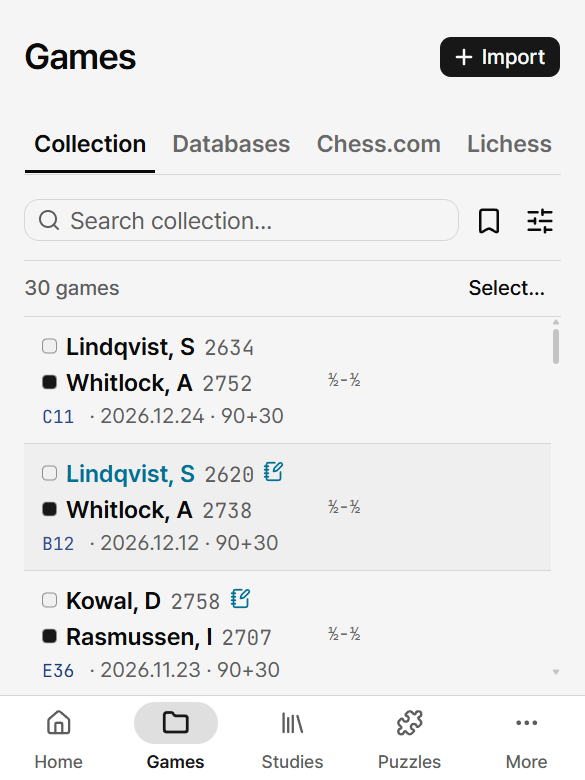
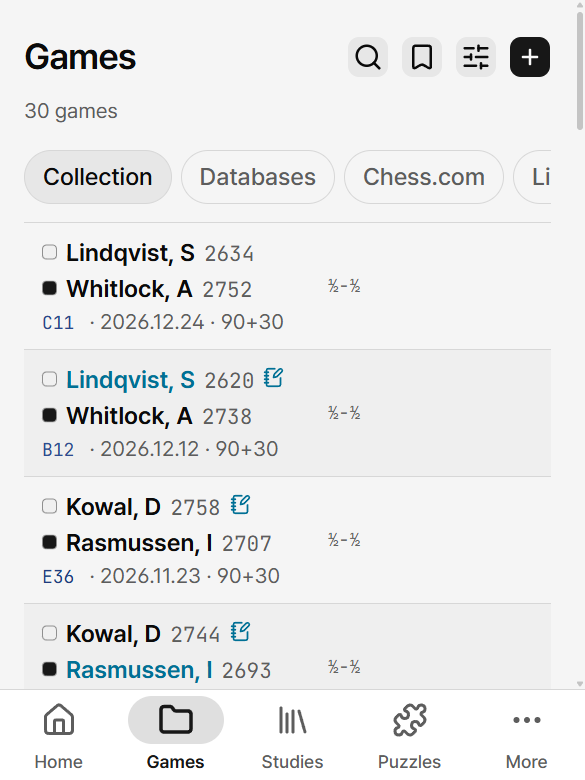
The manual catches up with the phone chrome, and its phone shots with it
The release audit walked the manual against the 0.11.4 entries. Stale:
the Games search described as a row of its own, the map menu as a
corner disc on every phone, the pane strip's underline. Missing: the
floating iPhone bar, row menus by platform, the bar a scroll up brings
back, the sidebar opening a section's first page, the review offer's
switch, the note's heading list. Both languages.

Shots: captured twice against one build. games-phone moved 42 to 46%
and note-phone 2.0% at a 0.00% noise floor, so those four are
recaptured. board, opening-map and puzzle-trainer differ from
themselves by as much as from the committed set and keep their bytes.

diff --git a/web/landing/docs.html b/web/landing/docs.html
@@ -765,13 +765,15 @@
               <strong>Databases</strong>. The Puzzles and Tools sub-rows unfold only while that section is open. Below them sit the vault's name (the one given in Settings → Vault, else its folder's; the full path in the tooltip; unfolded only), the connection label (“This device”, your server's name, or “Offline”; wide windows only), the Settings gear, and the light/dark
               toggle. At the end of the brand row, beside the mark, “Fold the sidebar” folds the sidebar to its icons; folded, the same button on the first row of the column reads “Unfold the sidebar” and unfolds it, and hovering a row shows its name as a tooltip. Until you choose, the window decides: labels on a wide window, icons on a narrower one. One press keeps your choice on this device. <kbd>Ctrl/⌘ B</kbd> folds and unfolds it too, wherever there is a sidebar, and the keyboard list under <kbd>?</kbd> names it (“Fold or unfold the sidebar”). In the desktop app the switch sits on the window's band instead; see <a href="#start">Getting started</a>.
             </p>
-            <p data-ko="휴대폰의 하단 바는 <strong>홈 · 게임 · 스터디 · 퍼즐 · 더보기</strong>(Home · Games · Studies · Puzzles · More)를 들고, <strong>더보기</strong>(More)에는 도구(Tools)(Board, Editor, Explorer, Repertoire, 엔드게임 드릴)가 먼저, 그 다음 Notes, Books, Opening map, Insights, Databases, Settings이 사이드바 순서대로 있습니다. 탭을 누르면 그 섹션이 서 있던 페이지로 돌아가고, 현재 탭을 한 번 더 누르면 섹션의 첫 페이지로, 첫 페이지에서는 페이지 맨 위로 올라갑니다. 바를 좌우로 밀면 알약이 손가락을 따라오고, 손가락 아래의 탭에 불이 들어오며, 손을 뗀 자리의 탭으로 갑니다. 보드가 있는 페이지에서는 하단 바가 그 페이지의 조작으로 바뀝니다. <a href='#phone'>휴대폰에서</a> 참조.">
+            <p data-ko="휴대폰의 하단 바는 <strong>홈 · 게임 · 스터디 · 퍼즐 · 더보기</strong>(Home · Games · Studies · Puzzles · More)를 들고, <strong>더보기</strong>(More)에는 도구(Tools)(Board, Editor, Explorer, Repertoire, 엔드게임 드릴)가 먼저, 그 다음 Notes, Books, Opening map, Insights, Databases, Settings이 사이드바 순서대로 있습니다. 탭을 누르면 그 섹션이 서 있던 페이지로 돌아가고(사이드바의 행은 그렇지 않고 언제나 섹션의 첫 페이지를 엽니다), 현재 탭을 한 번 더 누르면 섹션의 첫 페이지로, 첫 페이지에서는 페이지 맨 위로 올라갑니다. iPhone에서는 바가 아래 가장자리에서 떠 있는 둥근 캡슐이고 아이콘만 있습니다. 바를 좌우로 밀면 알약이 손가락을 따라오고, 손가락 아래의 탭에 불이 들어오며, 손을 뗀 자리의 탭으로 갑니다. 보드가 있는 페이지에서는 하단 바가 그 페이지의 조작으로 바뀝니다. <a href='#phone'>휴대폰에서</a> 참조.">
               A phone's bottom bar carries <strong>Home · Games · Studies · Puzzles ·
               More</strong>; <strong>More</strong> lists Tools (Board, Editor, Explorer, Repertoire,
               Endgame drills) first, then Notes, Books, Opening map, Insights, Databases and
-              Settings, in the sidebar's order. A tab returns to the page its section was on; a
+              Settings, in the sidebar's order. A tab returns to the page its section was on (a
+              sidebar row does not: it always opens its section's first page); a
               second tap on the current tab goes up to the section's root, and from the root to
-              the top of the page. Drag along the bar and the pill follows your
+              the top of the page. On an iPhone the bar is a rounded capsule floating off the bottom
+              edge, icons only. Drag along the bar and the pill follows your
               finger, the tab under it lights, and the app moves to whichever tab you let go on.
               On a page with a board the bar becomes that
               page's own controls; see <a href="#phone">On a phone</a>.
@@ -1676,12 +1678,13 @@
               </picture>
             </figure>
             <h2 data-ko="읽기와 쓰기">Reading and writing</h2>
-            <p data-ko="데스크톱에서는 노트가 바로 편집할 수 있는 상태로 열립니다. 글을 클릭하고 입력하면 됩니다. 머리의 <strong>읽기</strong>(Read)(«읽기로 돌아가기»(Back to reading))가 읽기로 돌아가고, 읽는 중에는 클릭만으로 위키링크가 열리며, 편집 중에는 Ctrl/⌘+클릭으로 엽니다. 휴대폰에서는 노트가 읽기 상태로 열리고 도구 막대가 없습니다. <strong>편집</strong>(Edit)(«이 노트 편집»(Edit this note))이 편집으로 바꾸고, 같은 자리가 <strong>완료</strong>(Done)가 됩니다. 머리의 나머지는 다른 문서와 같습니다: 뒤로, 제목(두 번 클릭해 이름 바꾸기), 이름표(«이 노트의 다른 이름»(Other names for this note)), 고리(«연결된 언급»(Linked mentions), 가리키는 것이 있을 때만), 시계(«이전 버전»(Earlier versions)), 저장 표시. 휴대폰에서는 이름표, 고리, 시계가 ⋯ 하나 뒤로 접힙니다.">
+            <p data-ko="데스크톱에서는 노트가 바로 편집할 수 있는 상태로 열립니다. 글을 클릭하고 입력하면 됩니다. 머리의 <strong>읽기</strong>(Read)(«읽기로 돌아가기»(Back to reading))가 읽기로 돌아가고, 읽는 중에는 클릭만으로 위키링크가 열리며, 편집 중에는 Ctrl/⌘+클릭으로 엽니다. 휴대폰에서는 노트가 읽기 상태로 열리고 도구 막대가 없습니다. <strong>편집</strong>(Edit)(«이 노트 편집»(Edit this note))이 편집으로 바꾸고, 같은 자리가 <strong>완료</strong>(Done)가 됩니다. 머리의 나머지는 다른 문서와 같습니다: 뒤로, 제목(두 번 클릭해 이름 바꾸기), 이름표(«이 노트의 다른 이름»(Other names for this note)), 고리(«연결된 언급»(Linked mentions), 가리키는 것이 있을 때만), 시계(«이전 버전»(Earlier versions)), 저장 표시. 휴대폰에서는 이름표, 고리, 시계가 ⋯ 하나 뒤로 접힙니다. 넓은 데스크톱 창에서는 제목이 둘 이상인 노트의 제목들이 글 왼쪽 여백에 목록으로 서고, 하나를 클릭하면 그 자리로 스크롤됩니다.">
               On a desktop a note opens ready to edit: click into the text and type. The header's <strong>Read</strong> (“Back to reading”) goes back to reading, where a plain click follows a wiki-link; while editing, Ctrl/⌘+click follows one. A phone opens a note to read, with no toolbar: its <strong>Edit</strong> (“Edit this note”) switches to writing, and the same spot becomes <strong>Done</strong> (“Back to reading”). The rest of the header matches
               every document: back, the title (double-click to rename), the tag (“Other names for
               this note”), the link (“Linked mentions”, only where something points here), the
               clock (“Earlier versions”), the save control; on a phone the tag, the link and the
-              clock fold behind one ⋯.
+              clock fold behind one ⋯. On a wide desktop window a note with two or more headings
+              lists them in the margin left of the text, and a click on one scrolls to it.
             </p>
             <h3 data-ko="서식 도구 막대">The formatting toolbar</h3>
             <p data-ko="편집 중에만 노트 위에 고정되어 표시됩니다. 열 개의 버튼, 순서대로:">
@@ -1782,7 +1785,7 @@
             </figure>
             <h2 data-ko="모음">The collection</h2>
             <ul>
-              <li data-ko="검색(«모음 검색…»(Search collection…))과 즐겨찾기 필터가 위에, 그 아래로 필터 줄: <strong>누구의 게임</strong>(Whose games)(Anyone's games · My games · Mine as White · Mine as Black) · <strong>결과</strong>(Result) · <strong>노트</strong>(Notes)(All games / With notes), 그리고 «필터 더 보기»(More filters). 태블릿 너비 아래에서는 세 선택 상자가 «필터 더 보기» 창에만 있고, 그 버튼은 검색 칸 옆에 켜진 필터 수를 달고 섭니다. 검색 상자는 Databases 탭과 같은 질의 언어를 씁니다 — <a href='#db-search'>데이터베이스 검색</a> 참조. 줄을 오른쪽 클릭하면 <strong>즐겨찾기 · 이름 바꾸기 · 제거</strong>(Bookmark · Rename · Remove)(잠깐 실행 취소 가능)가 나오고, 출처가 있으면 <strong>온라인에서 보기</strong>(View online)가 함께 옵니다. 기보를 여는 것은 이 메뉴가 아니라 더블 클릭입니다. 카드 줄로 그려지는 좁은 화면에서는 같은 메뉴가 줄의 ⋯에 있고, <strong>보드 미리 보기</strong>(Preview the board)와 <strong>게임 정보</strong>가 앞에 붙습니다. 넓은 화면에서는 옆의 패널이 맡는 일입니다. 휴대폰에서는 검색 칸에 입력하는 동안 칸이 줄 전체를 차지하고, 옆의 버튼들은 칸을 떠날 때까지 물러납니다. «취소»(Cancel)는 칸을 비우고 키보드를 내립니다. Databases 탭과 온라인 기보 탭의 검색 줄도 같습니다.">
+              <li data-ko="검색(«모음 검색…»(Search collection…))과 즐겨찾기 필터가 위에, 그 아래로 필터 줄: <strong>누구의 게임</strong>(Whose games)(Anyone's games · My games · Mine as White · Mine as Black) · <strong>결과</strong>(Result) · <strong>노트</strong>(Notes)(All games / With notes), 그리고 «필터 더 보기»(More filters). 태블릿 너비 아래에서는 세 선택 상자가 «필터 더 보기» 창에만 있고, 그 버튼은 검색 칸 옆에 켜진 필터 수를 달고 섭니다. 검색 상자는 Databases 탭과 같은 질의 언어를 씁니다 — <a href='#db-search'>데이터베이스 검색</a> 참조. 줄을 오른쪽 클릭하면 <strong>즐겨찾기 · 이름 바꾸기 · 제거</strong>(Bookmark · Rename · Remove)(잠깐 실행 취소 가능)가 나오고, 출처가 있으면 <strong>온라인에서 보기</strong>(View online)가 함께 옵니다. 기보를 여는 것은 이 메뉴가 아니라 더블 클릭입니다. 카드 줄로 그려지는 좁은 화면에서는 같은 메뉴가 줄의 ⋯에 있고, <strong>보드 미리 보기</strong>(Preview the board)와 <strong>게임 정보</strong>가 앞에 붙습니다. 넓은 화면에서는 옆의 패널이 맡는 일입니다. 휴대폰에서는 검색이 제목 줄의 돋보기입니다(아래 참조). 그 옆의 «취소»(Cancel)는 칸을 비우고 키보드를 내리며 제목을 돌려줍니다. Databases 탭도 같고, 온라인 기보 탭의 사용자 이름 칸은 입력한 이름을 그대로 둔 채 닫힙니다.">
                 Search (“Search collection…”) and the bookmark filter on top, and a filter row
                 under them: <strong>Whose games</strong> (Anyone's games · My games · Mine as
                 White · Mine as Black) · <strong>Result</strong> · <strong>Notes</strong> (All
@@ -1795,10 +1798,10 @@
                 game is the double click, not a menu item. Where rows are cards rather than a
                 table, the same menu sits under the row's ⋯ and gains
                 <strong>Preview the board</strong> and <strong>Game details</strong> in front —
-                the work the panel beside a wide table does. On a phone the search field takes the
-                whole row while you type in it, the buttons beside it stepping aside until you
-                leave; “Cancel” empties it and puts the keyboard away. The same holds for the
-                Databases and archive tabs' search rows.
+                the work the panel beside a wide table does. On a phone the search is a magnifier in
+                the title row (see below); “Cancel” beside the field empties it, puts the keyboard
+                away and gives the title back. The same holds for the Databases tab; the archive
+                tabs' username field closes with the name left in it.
               </li>
               <li data-ko="<strong>게임 가져오기</strong>(Import a game): PGN을 붙여 넣습니다. «PGN 또는 수순만 붙여넣으세요: 1. e4 e5 2. Nf3 …». 헤더가 있으면 아래 칸들(White/Black, 레이팅, 날짜, 대회)이 저절로 채워지고, Result는 <strong>자동 · 1-0 · 0-1 · ½-½</strong>(Auto · 1-0 · 0-1 · ½-½)에서 고릅니다. 제출은 <strong>모음에 추가</strong>(Add to collection). 붙여넣은 글에 게임이 여럿이면 각각 문서로 추가되고, 상자 아래 줄이 그 수를 세며, 토스트가 «게임 {n}개를 추가했습니다»(Added {n} games)와 함께 이미 있던 수, 읽지 못한 수를 알려 줍니다.">
                 <strong>Import a game</strong>: paste a PGN: “Paste a PGN, or just moves: 1. e4 e5 2. Nf3 …”. Headers fill the detail fields (players, ratings, date, event) by
@@ -2531,8 +2534,9 @@
               </picture>
             </figure>
             <h2 data-ko="맵 메뉴">The map menu</h2>
-            <p data-ko="데스크톱에서는 머리의 아이콘 줄, 휴대폰에서는 «맵 메뉴»(Map menu) FAB. 순서대로:">
-              Icons in the header on a desktop, the “Map menu” FAB on a phone. In order:
+            <p data-ko="데스크톱에서는 머리의 아이콘 줄, Android 휴대폰에서는 오른쪽 아래의 «맵 메뉴»(Map menu) 원반, iPhone에서는 제목 줄의 같은 나침반 버튼. 순서대로:">
+              Icons in the header on a desktop, the “Map menu” disc in the bottom-right corner on an
+              Android phone, the same compass on the title row on an iPhone. In order:
             </p>
             <div class="scroll-x">
               <table class="controls">
@@ -2547,12 +2551,13 @@
                 </tbody>
               </table>
             </div>
-            <p data-ko="휠/핀치로 확대·축소하고, 끌어서 이동하며, 점을 끌면 거미줄이 당겨집니다. 키보드로는 <kbd>+</kbd>와 <kbd>-</kbd>가 확대·축소, <kbd>0</kbd>이 화면에 맞추기, <kbd>Shift</kbd>+화살표가 이동이며, 화살표로 점을 고르면 그 점이 화면 안으로 미끄러져 들어옵니다. 라벨은 흐려지지 않고 온전히 그려지거나 아예 생략됩니다. 검색(«수와 오프닝 이름 검색»(Search moves and opening names))은 수와 오프닝 이름을 함께 찾습니다.">
+            <p data-ko="휠/핀치로 확대·축소하고, 끌어서 이동하며, 점을 끌면 거미줄이 당겨집니다. 키보드로는 <kbd>+</kbd>와 <kbd>-</kbd>가 확대·축소, <kbd>0</kbd>이 화면에 맞추기, <kbd>Shift</kbd>+화살표가 이동이며, 화살표로 점을 고르면 그 점이 화면 안으로 미끄러져 들어옵니다. 라벨은 흐려지지 않고 온전히 그려지거나 아예 생략됩니다. 검색(«수와 오프닝 이름 검색»(Search moves and opening names))은 수와 오프닝 이름을 함께 찾습니다. 휴대폰에서는 다른 목록처럼 제목 줄의 돋보기로 접힙니다.">
               Wheel/pinch zooms, dragging pans, and dragging a dot pulls the web. From the
               keyboard, <kbd>+</kbd> and <kbd>-</kbd> zoom, <kbd>0</kbd> fits the map,
               <kbd>Shift</kbd>+arrows pan, and selecting a dot with the arrow keys slides it into
               view. A label is drawn whole or not at all; none fades. The search field
-              (“Search moves and opening names”) finds both.
+              (“Search moves and opening names”) finds both; on a phone it folds into a magnifier
+              on the title row, as the shelves' do.
             </p>
             <h2 data-ko="수 놓기">Charting moves</h2>
             <ul>
@@ -2934,12 +2939,17 @@
             </figure>
             <h2 data-ko="무엇이 달라지나">What changes</h2>
             <ul>
-              <li data-ko="하단 바에 <strong>홈 · 게임 · 스터디 · 퍼즐 · 더보기</strong>(Home · Games · Studies · Puzzles · More)가 있고, 나머지는 More 안에 있습니다. 각 페이지의 만들기·추가는 데스크톱과 같이 제목 줄의 버튼(«만들기»(Create), Games에서는 «가져오기»(Import))에 있고, 여러 가지를 만들 수 있는 페이지에서는 그 버튼이 동작 시트를, iPhone에서는 버튼 아래 메뉴를 엽니다. 오프닝 맵만 오른쪽 아래의 나침반 원반으로 메뉴를 엽니다.">
+              <li data-ko="하단 바에 <strong>홈 · 게임 · 스터디 · 퍼즐 · 더보기</strong>(Home · Games · Studies · Puzzles · More)가 있고, 나머지는 More 안에 있습니다. iPhone에서는 바가 아래 가장자리에서 떠 있는 반투명한 둥근 캡슐이며 아이콘만 있고, 페이지가 그 아래로 스크롤됩니다. 아래로 스크롤하면 작아지고, 위로 스크롤하거나 바를 누르면 돌아옵니다. Android에서는 바가 가장자리에 붙어 있습니다. 각 페이지의 만들기·추가는 데스크톱과 같이 제목 줄의 버튼(«만들기»(Create), Games에서는 «가져오기»(Import))에 있고, 여러 가지를 만들 수 있는 페이지에서는 그 버튼이 동작 시트를, iPhone에서는 버튼 아래 메뉴를 엽니다. Android에서는 오프닝 맵만 오른쪽 아래의 나침반 원반으로 메뉴를 열고, iPhone에서는 그 나침반이 제목 줄에 있습니다. 줄의 ⋯ 메뉴도 같은 식으로, iPhone에서는 버튼에서 펼쳐지는 메뉴, Android에서는 아래에서 올라오는 시트입니다.">
                 The bottom bar carries <strong>Home · Games · Studies · Puzzles · More</strong>,
-                the rest under More. Each page's create/add actions sit on the title row as on a
+                the rest under More. On an iPhone the bar is a translucent rounded capsule floating
+                off the bottom edge, icons only, with the page scrolling under it; it shrinks as you
+                scroll down, and a scroll up or a tap on it brings it back. On Android the bar is
+                docked to the edge. Each page's create/add actions sit on the title row as on a
                 desktop (“Create”, or “Import” on Games); where a page can make several things the
-                button opens an action sheet, or on an iPhone a menu under the button. Only the opening map keeps a round button in the
-                bottom-right corner, the compass, which opens its menu.
+                button opens an action sheet, or on an iPhone a menu under the button. On Android only
+                the opening map keeps a round button in the bottom-right corner, the compass, which
+                opens its menu; on an iPhone the compass is on the title row. A row's ⋯ menu goes
+                the same way: a menu hanging from the button on an iPhone, a bottom sheet on Android.
               </li>
               <li data-ko="보드가 있는 페이지에서는 하단 바가 <strong>그 페이지의 조작</strong>이 됩니다. Chess.com·Lichess 앱과 같은 방식입니다: 보드에서는 수 이동, 퍼즐에서는 퍼즐 이동, 책에서는 열린 탭(Book/Board)의 도구, 오프닝 맵에서는 선택한 수의 띠. 페이지를 떠나면 원래 탭들이 돌아옵니다.">
                 On a page with a board, the bar becomes <strong>that page's controls</strong> —
@@ -2947,10 +2957,10 @@
                 navigation in the trainer, the open tab's tools in the book reader, the selected
                 move's strip on the opening map. Leaving the page brings the tabs back.
               </li>
-              <li data-ko="보드 옆의 패널들은 탭(Moves / Engine / Chapters / Explorer)이 되고, 상세 패널들은 아래에서 올라오는 시트가 됩니다. 탭 줄은 패널 카드의 머리이며, 열린 탭 아래의 선이 미는 손가락을 따라갑니다. 패널 위에서 좌우로 밀면 위쪽 탭 줄까지 올라가지 않아도 옆 탭으로 넘어갑니다. 양 끝에서는 멈추며, 옆으로 스크롤되는 줄이나 글자를 입력하는 칸 위에서 시작한 손짓은 그 컨트롤이 가져갑니다.">
+              <li data-ko="보드 옆의 패널들은 탭(Moves / Engine / Chapters / Explorer)이 되고, 상세 패널들은 아래에서 올라오는 시트가 됩니다. 탭 줄은 패널 카드의 머리이며, 열린 탭은 채워진 칸 위에 놓이고 그 칸이 미는 손가락을 따라갑니다. 패널 위에서 좌우로 밀면 위쪽 탭 줄까지 올라가지 않아도 옆 탭으로 넘어갑니다. 양 끝에서는 멈추며, 옆으로 스크롤되는 줄이나 글자를 입력하는 칸 위에서 시작한 손짓은 그 컨트롤이 가져갑니다.">
                 The panels beside a board become tabs — Moves / Engine / Chapters / Explorer — and
                 the detail panels become bottom sheets. The tab strip is the panel card's own
-                header, and the line under the open tab follows your thumb as you swipe. Swipe
+                header, and the open tab sits on a filled segment that follows your thumb as you swipe. Swipe
                 sideways across a panel to turn to
                 the next tab, without reaching back up to the strip; it stops at either end, and a
                 gesture that starts on a row that scrolls sideways or in a text field belongs to
@@ -2970,9 +2980,11 @@
                 one-field questions (a new study, a new note, a rename) have no Cancel on a phone,
                 where the sheet's handle is the way out.
               </li>
-              <li data-ko="페이지 이름은 큰 제목이고 페이지의 버튼은 그 옆에 있으며, 페이지와 함께 스크롤됩니다. 목록에서 연 페이지는 오른쪽에서 밀려 들어오고 뒤로 가기 셰브론이 그것을 되돌립니다. 탭을 바꾸면 새 페이지가 한 프레임에 바로 나타나고, 바의 알약만 탭 사이를 미끄러집니다. 게임이나 스터디에서 뒤로 가면 보드가 원래 있던 썸네일 속으로 날아 들어갑니다. 시스템의 움직임 줄이기 설정에서는 모두 멈춥니다.">
+              <li data-ko="페이지 이름은 큰 제목이고 페이지의 버튼은 그 옆에 있으며, 페이지와 함께 스크롤됩니다. 목록 페이지와 Games에서는 위로 스크롤하면 같은 버튼을 든 작은 바가 돌아오고, 노트의 머리도 아래로 읽는 동안 물러났다가 위로 스크롤하면 돌아옵니다. 목록에서 연 페이지는 오른쪽에서 밀려 들어오고 뒤로 가기 셰브론이 그것을 되돌립니다. 탭을 바꾸면 새 페이지가 한 프레임에 바로 나타나고, 바의 알약만 탭 사이를 미끄러집니다. 게임이나 스터디에서 뒤로 가면 보드가 원래 있던 썸네일 속으로 날아 들어갑니다. 시스템의 움직임 줄이기 설정에서는 모두 멈춥니다.">
                 The page's name is a large title with the page's buttons beside it, and it scrolls
-                with the page. A page opened from a list slides in from the right and its back
+                with the page. On the shelves and on Games a scroll up brings back a compact bar
+                with the same buttons, and a note's header likewise leaves while you read down and
+                returns on the first scroll up. A page opened from a list slides in from the right and its back
                 chevron slides it out; switching tabs is a cut, the new page there in one frame,
                 while the bar's pill slides between tabs. Going back from a game or a study flies
                 the board into the thumbnail it came from. All of it stays still under the system's
@@ -2998,9 +3010,10 @@
                 A document's tools (other names, what links here, earlier versions) fold behind one
                 ⋯ in the title row; the row keeps the name, Edit and Save.
               </li>
-              <li data-ko="리뷰 제안은 수 목록 창의 띠 대신 페이지 위에 몇 초 동안 뜨는 토스트이며 X로 닫습니다.">
+              <li data-ko="리뷰 제안은 수 목록 창의 띠 대신 페이지 위에 몇 초 동안 뜨는 토스트이며 X로 닫습니다. 설정 → 모양(Appearance) → 옵션 더 보기(More options)의 <strong>리뷰 제안</strong>(Review offer)으로 끌 수 있습니다.">
                 The review offer is a toast over the page for a few seconds, with an X, instead of a
-                band in the moves pane.
+                band in the moves pane. Settings → Appearance → More options →
+                <strong>Review offer</strong> switches it off.
               </li>
               <li data-ko="두 손가락으로 벌려도 페이지는 확대되지 않습니다. 앱은 앱답게 제 크기를 지키므로 화면 위의 두 손가락은 아무것도 바꾸지 않습니다. 글자를 키우려면 브라우저나 기기의 글자 크기 설정을 쓰십시오. 앱은 그 설정을 따릅니다. 두 손가락을 스스로 읽는 곳은 그대로입니다: 책의 페이지, 근거 페이지, 오프닝 맵은 저마다 보여 주는 것을 확대합니다.">
                 A two-finger spread does not enlarge the page. The app holds its own size the way
